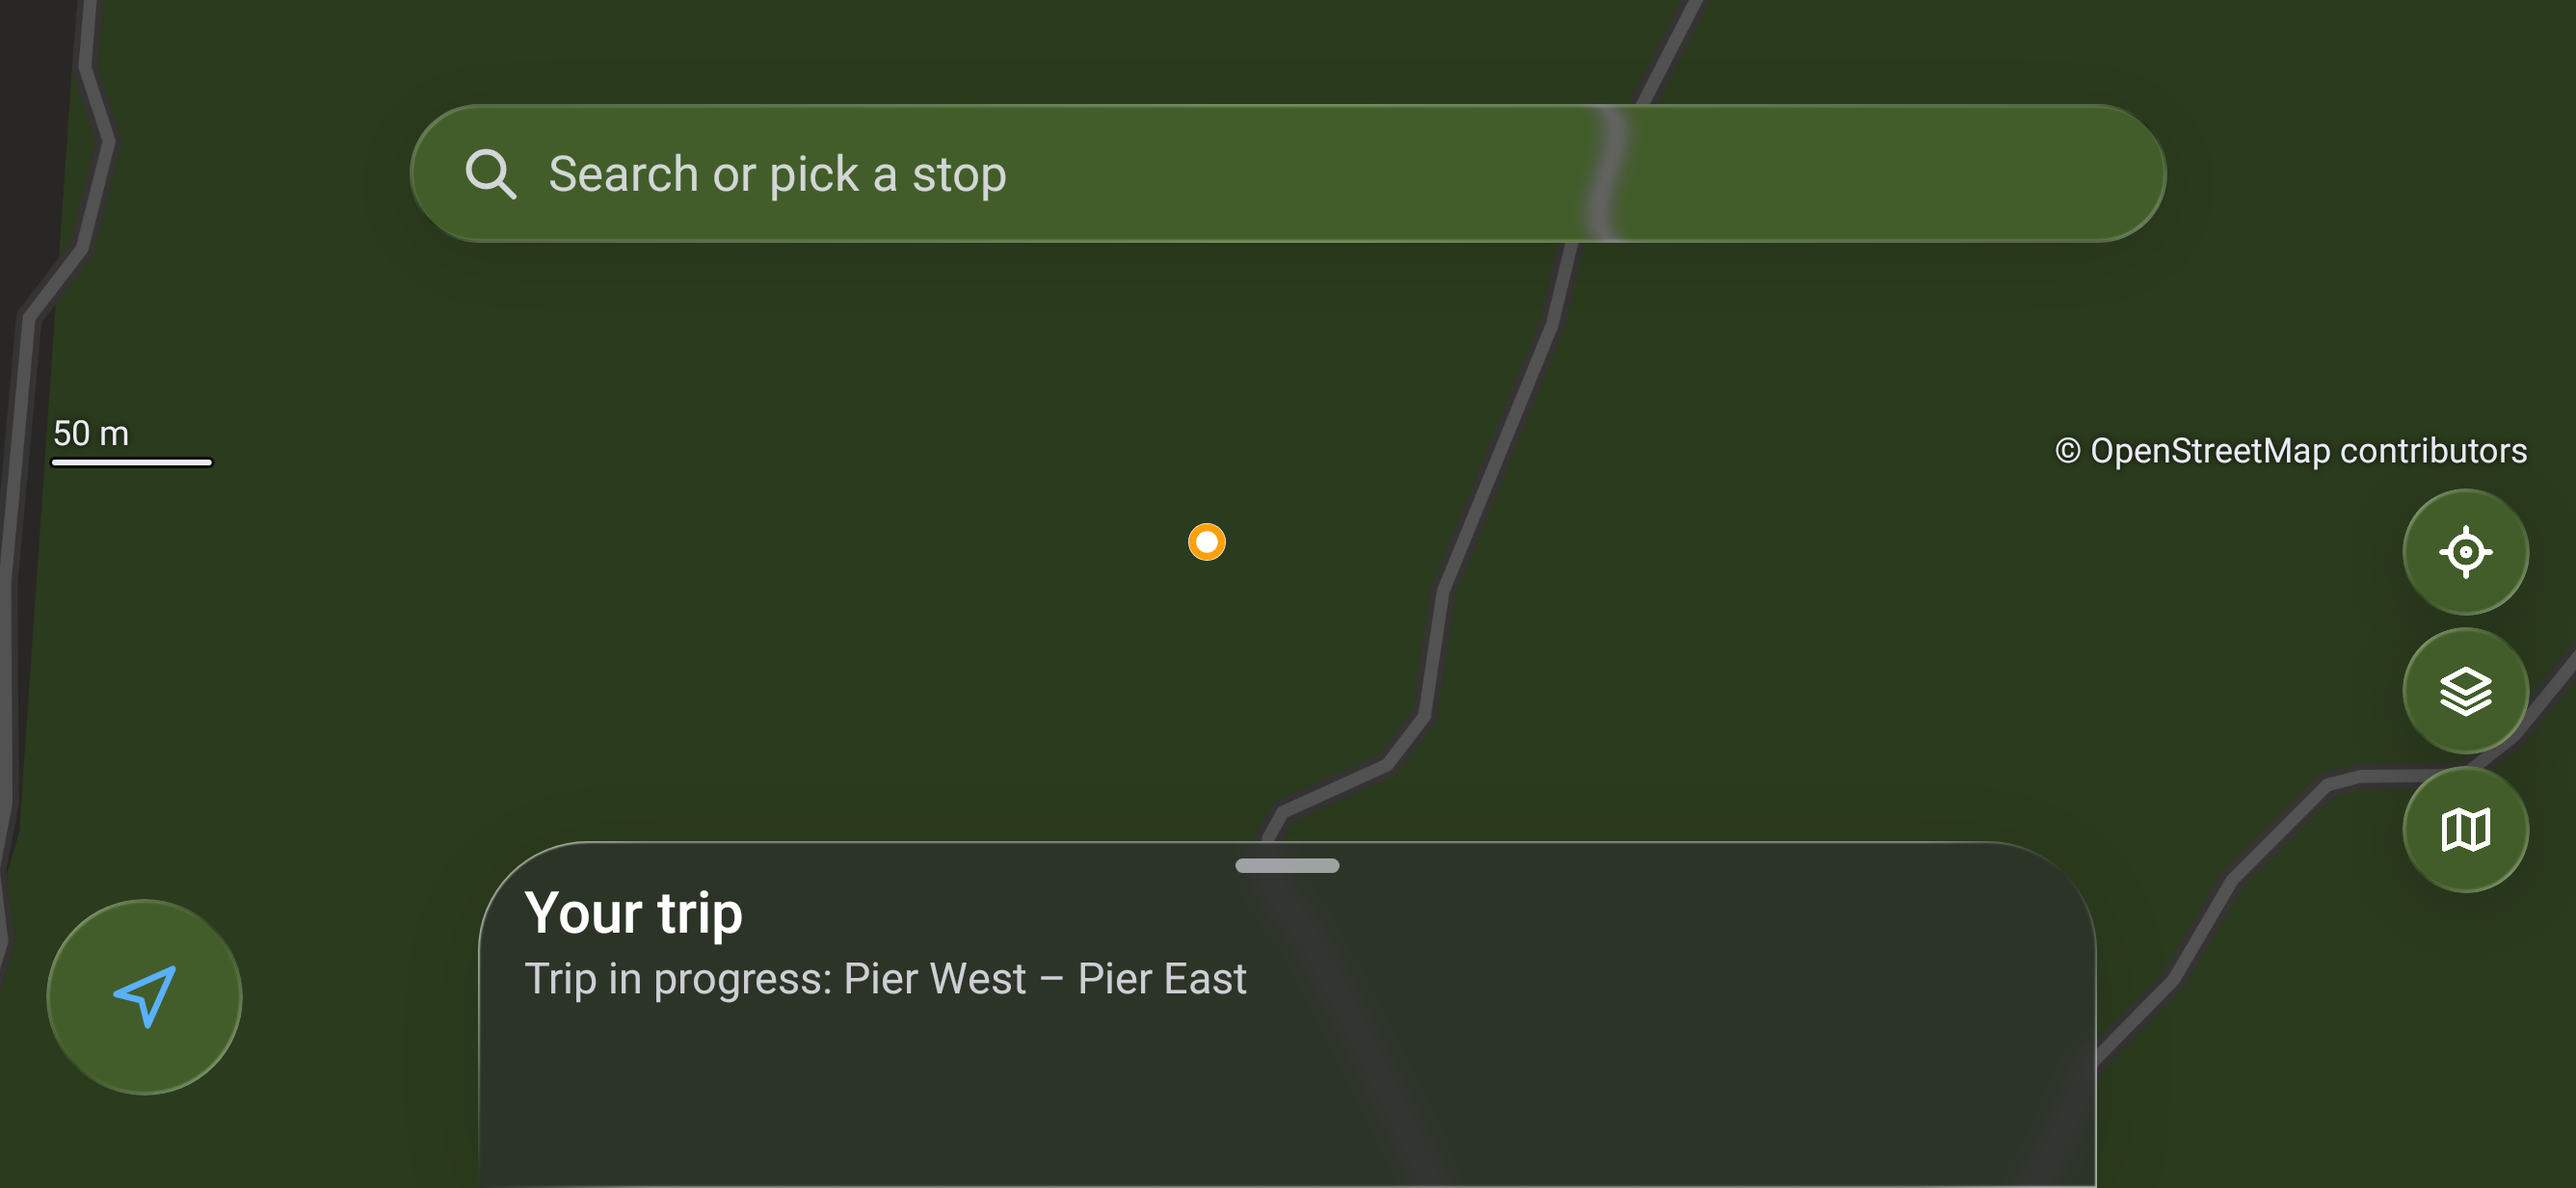
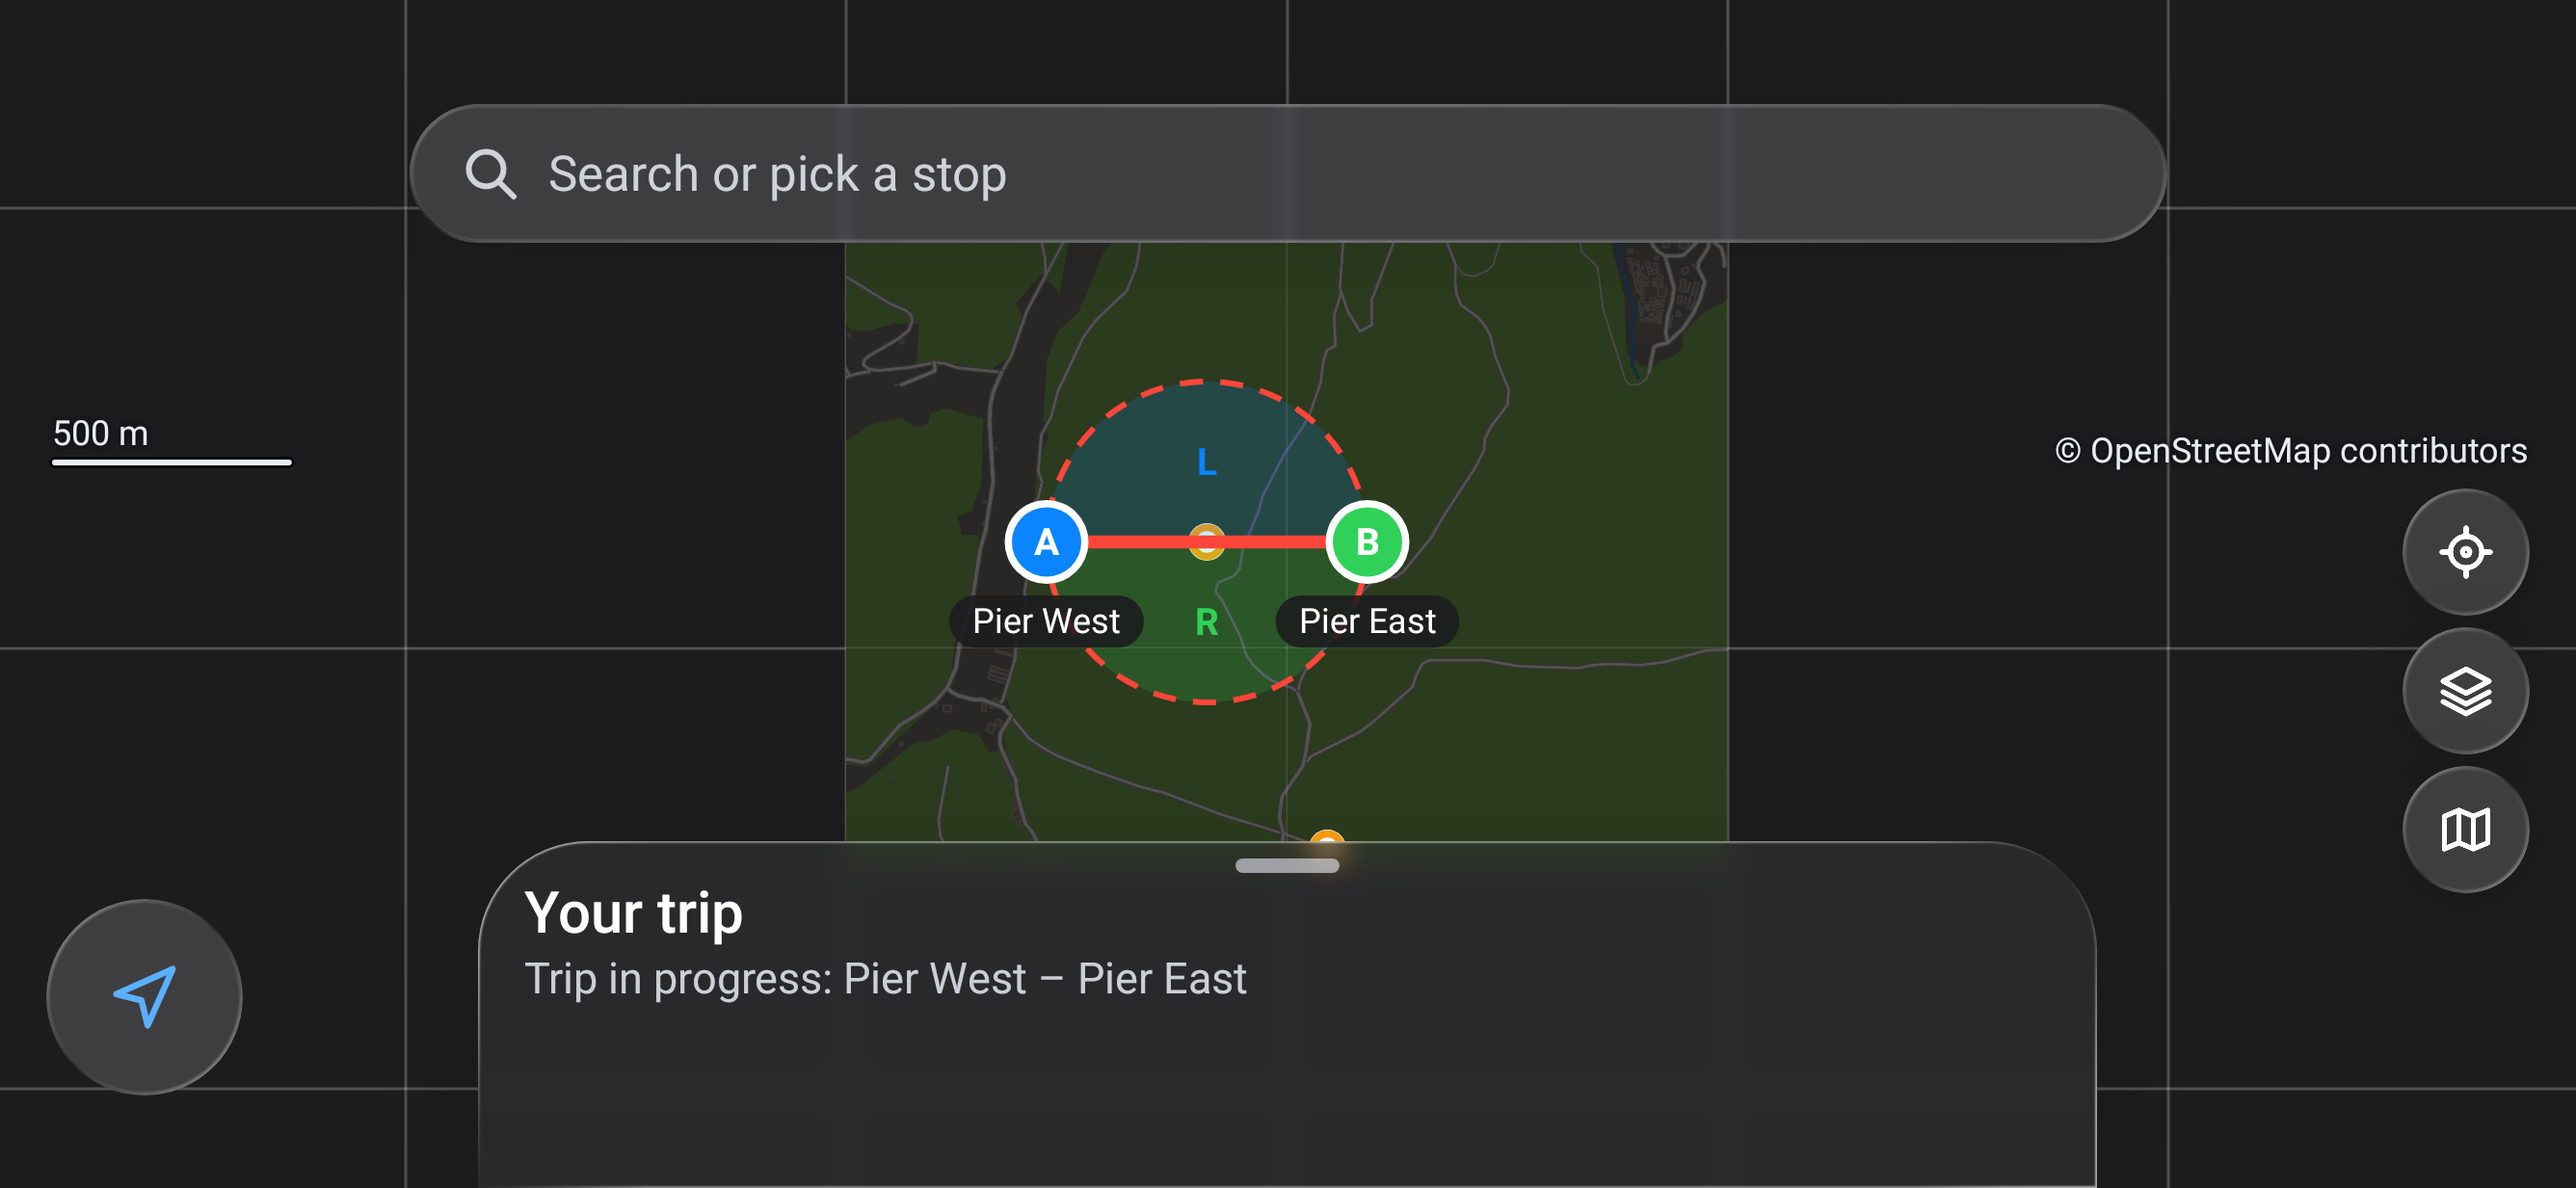
stops: a trip's gate is fitted as its whole circle (landscape home showed neither pins nor circle)
Claude-Session: https://claude.ai/code/session_011osUp9MCesspyDRaLRPJDZ

diff --git a/android/stops/src/test/kotlin/dev/rosty/stops/map/MapCameraTest.kt b/android/stops/src/test/kotlin/dev/rosty/stops/map/MapCameraTest.kt
@@ -346,13 +346,13 @@ class MapCameraTest {
 
     @Test fun aMarginLargerThanTheRoomIsShrunkNotObeyed() {
         val c = camera(width = 400, height = 800)
-        // 190 px of margin on each side of 400 would leave 20 px: the fit keeps the 120 dp minimum instead.
+        // 190 px of margin on each side of 400 would leave 20 px: the fit keeps the 60 dp minimum instead.
         assertTrue(c.fit(41.00, 28.90, 41.05, 29.10, marginPx = 190f))
         val width = c.screenX(29.10) - c.screenX(28.90)
-        assertEquals(120f, width, 1f)
+        assertEquals(60f, width, 1f)
         // A margin beyond the viewport, a negative one and padding beyond the viewport are harmless too.
         assertTrue(c.fit(41.00, 28.90, 41.05, 29.10, marginPx = 5_000f))
-        assertEquals(120f, c.screenX(29.10) - c.screenX(28.90), 1f)
+        assertEquals(60f, c.screenX(29.10) - c.screenX(28.90), 1f)
         assertTrue(c.fit(41.00, 28.90, 41.05, 29.10, marginPx = -50f))
         assertEquals(400f, c.screenX(29.10) - c.screenX(28.90), 1f)
         assertTrue(c.setPadding(900f, 900f, 900f, 900f))
@@ -371,6 +371,48 @@ class MapCameraTest {
         // Centre-on and travel aim at the same sensible point.
         assertTrue(tiny.centreOn(41.02, 29.0))
         assertEquals(30f, tiny.screenX(29.0), 0.5f)
+    }
+
+    @Test fun fitGateKeepsTheWholeCircleInTheFreeArea() {
+        // 891 x 411 dp landscape at 3x, a trip in progress: top chrome 84 dp, the sheet at peek 120 dp, buttons 68 dp.
+        val c = camera(width = 2673, height = 1233, density = 3f)
+        assertTrue(c.setPadding(0f, 252f, 204f, 360f))
+        val margin = 144f
+        // A west-east gate of about 670 m.
+        val lat = 41.002
+        val west = 28.994
+        val east = 29.002
+        // Fitting the two ends alone fills the width: most of the circle is under the chrome (the bug).
+        assertTrue(c.fitPoints(doubleArrayOf(lat, west, lat, east), marginPx = margin))
+        val wrongRadius = (c.screenX(east) - c.screenX(west)) / 2f
+        assertTrue(c.screenY(lat) - wrongRadius < 252f)
+        // The gate fit holds the whole circle.
+        assertTrue(c.fitGate(lat, west, lat, east, marginPx = margin))
+        val radius = (c.screenX(east) - c.screenX(west)) / 2f
+        val cx = (c.screenX(east) + c.screenX(west)) / 2f
+        val cy = c.screenY(lat)
+        assertEquals(c.focusX, cx, 1f)
+        assertEquals(c.focusY, cy, 1f)
+        assertTrue("top ${cy - radius}", cy - radius >= 252f + margin - 1f)
+        assertTrue("bottom ${cy + radius}", cy + radius <= 1233f - 360f - margin + 1f)
+        assertTrue(cx - radius >= margin && cx + radius <= 2673f - 204f - margin)
+        // The short axis binds: the circle touches the margins above and below.
+        assertEquals(252f + margin, cy - radius, 2f)
+        // The same for a north-south and a diagonal gate, and whichever end is A.
+        for (gate in listOf(doubleArrayOf(41.0, 29.0, 41.006, 29.0), doubleArrayOf(41.004, 29.003, 41.0, 28.997))) {
+            assertTrue(c.fitGate(gate[0], gate[1], gate[2], gate[3], marginPx = margin))
+            val ax = c.screenX(gate[1])
+            val ay = c.screenY(gate[0])
+            val bx = c.screenX(gate[3])
+            val by = c.screenY(gate[2])
+            val r = kotlin.math.hypot(bx - ax, by - ay) / 2f
+            assertEquals(c.focusY, (ay + by) / 2f, 1f)
+            assertEquals((1233f - 360f - 252f) / 2f - margin, r, 2f)
+        }
+        // Both ends on one point is a point fit; a broken coordinate changes nothing.
+        assertTrue(c.fitGate(41.0, 29.0, 41.0, 29.0))
+        assertEquals(MapMath.MIN_METRES_PER_DP, c.metresPerDp, 1e-6)
+        assertFalse(c.fitGate(41.0, Double.NaN, 41.0, 29.0))
     }
 
     @Test fun fitOfOnePointUsesTheClosestAllowedScale() {

diff --git a/android/stops/src/main/kotlin/dev/rosty/stops/map/MapCamera.kt b/android/stops/src/main/kotlin/dev/rosty/stops/map/MapCamera.kt
@@ -155,7 +155,7 @@ class MapCamera(
     ): Double {
         val free = if (counts) size - padding else size.toFloat()
         // A margin that would leave less than the minimum is shrunk rather than obeyed.
-        val least = minOf(free, MIN_FREE_DP * density)
+        val least = minOf(free, MIN_FIT_DP * density)
         return max(1.0, max(least, free - 2 * max(0f, marginPx)).toDouble())
     }
 
@@ -323,7 +323,7 @@ class MapCamera(
      *
      * The fit never works with less than [MIN_FREE_DP] on an axis: padding that leaves less is ignored on that axis
      * (the box is fitted to the whole viewport there, partly under the chrome, instead of zooming out to the limit),
-     * and a margin that would leave less is shrunk.
+     * and a margin that would leave less than [MIN_FIT_DP] is shrunk.
      */
     fun fit(
         south: Double,
@@ -387,6 +387,37 @@ class MapCamera(
             east = max(east, latLon[2 * i + 1])
         }
         return fit(south, west, north, east, marginPx, minMetresPerDp)
+    }
+
+    /**
+     * [fit] for a gate: the whole circle whose diameter is AB, not only its two ends. A west-east gate in a wide
+     * window would otherwise fill the width and leave most of its circle above and below the free area.
+     */
+    fun fitGate(
+        aLat: Double,
+        aLon: Double,
+        bLat: Double,
+        bLon: Double,
+        marginPx: Float = 0f,
+        minMetresPerDp: Double = MapMath.MIN_METRES_PER_DP,
+    ): Boolean {
+        if (!aLat.isFinite() || !aLon.isFinite() || !bLat.isFinite() || !bLon.isFinite()) return false
+        // On the Mercator plane, where the circle is drawn: its centre is the middle of AB, its radius half of AB.
+        val ax = MapMath.worldX(aLon)
+        val ay = MapMath.worldY(aLat)
+        val dx = MapMath.wrapDelta(MapMath.worldX(bLon), ax)
+        val dy = MapMath.worldY(bLat) - ay
+        val cx = ax + dx / 2.0
+        val cy = ay + dy / 2.0
+        val r = Math.hypot(dx, dy) / 2.0
+        return fit(
+            south = MapMath.latOf(min(1.0, cy + r)),
+            west = MapMath.lonOfUnwrapped(cx - r),
+            north = MapMath.latOf(max(0.0, cy - r)),
+            east = MapMath.lonOfUnwrapped(cx + r),
+            marginPx = marginPx,
+            minMetresPerDp = minMetresPerDp,
+        )
     }
 
     // ---- gestures and animation ----
@@ -617,8 +648,11 @@ class MapCamera(
         /** A double tap zooms in by this (GPUI: `zoom_about(2.0, at)`). */
         const val DOUBLE_TAP_FACTOR = 2.0
 
-        /** The least free length per axis that padding and margins may leave for [fit] and the focus point. */
+        /** The least free length per axis that padding may leave for [fit] and the focus point. */
         const val MIN_FREE_DP = 120f
+
+        /** The least length per axis the margins of [fit] may leave (a short strip keeps most of its margins). */
+        const val MIN_FIT_DP = 60f
 
         const val ZOOM_ANIMATION_S = 0.25
         const val TRAVEL_ANIMATION_S = 0.45

diff --git a/android/stops/src/main/kotlin/dev/rosty/stops/home/HomeMap.kt b/android/stops/src/main/kotlin/dev/rosty/stops/home/HomeMap.kt
@@ -19,6 +19,7 @@ import androidx.core.net.toUri
 import androidx.lifecycle.Lifecycle
 import androidx.lifecycle.compose.LocalLifecycleOwner
 import androidx.lifecycle.repeatOnLifecycle
+import dev.rosty.core.model.stops.Coord
 import dev.rosty.core.model.stops.Destination
 import dev.rosty.design.motion.MotionGate
 import dev.rosty.platform.location.Fix
@@ -159,6 +160,10 @@ fun PlaceFirstView(
                 map.camera.fitPoints(view.latLon, marginPx = FIT_MARGIN_DP * map.camera.density)
             }
 
+            is FirstView.Gate -> {
+                map.fitGate(view.a, view.b)
+            }
+
             is FirstView.Centre -> {
                 // GPUI `Viewport::new(at, STREET_MPP)`: the position opens at street scale, then clears the chrome.
                 map.camera.setView(view.lat, view.lon, STREET_METRES_PER_DP)
@@ -181,11 +186,16 @@ private const val STREET_METRES_PER_DP = 1.5
 
 /** The view fits the gate of a trip that just started (GPUI follows the trip). */
 fun HomeMap.showGate(trip: dev.rosty.stops.trip.RunningTrip) {
+    fitGate(trip.a.coord, trip.b.coord)
+}
+
+/** The view fits the whole circle on AB (the pins, their captions and the circle clear the chrome by the margin). */
+private fun HomeMap.fitGate(
+    a: Coord,
+    b: Coord,
+) {
     if (camera.widthPx > 0 && camera.heightPx > 0) {
-        camera.fitPoints(
-            doubleArrayOf(trip.a.coord.lat, trip.a.coord.lon, trip.b.coord.lat, trip.b.coord.lon),
-            marginPx = FIT_MARGIN_DP * camera.density,
-        )
+        camera.fitGate(a.lat, a.lon, b.lat, b.lon, marginPx = FIT_MARGIN_DP * camera.density)
     }
 }
 
@@ -195,18 +205,19 @@ fun HomeMap.showPair(
     b: Destination,
 ) {
     pick.setPair(a, b)
-    if (camera.widthPx > 0 && camera.heightPx > 0) {
-        camera.fitPoints(
-            doubleArrayOf(a.coord.lat, a.coord.lon, b.coord.lat, b.coord.lon),
-            marginPx = FIT_MARGIN_DP * camera.density,
-        )
-    }
+    fitGate(a.coord, b.coord)
 }
 
 /** Where the first view goes. */
 sealed interface FirstView {
     class Fit(
         val latLon: DoubleArray,
+    ) : FirstView
+
+    /** A trip's gate: the circle on AB. */
+    data class Gate(
+        val a: Coord,
+        val b: Coord,
     ) : FirstView
 
     data class Centre(
@@ -224,7 +235,7 @@ fun firstView(
 ): FirstView {
     val trip = state.trip
     if (trip?.a != null && trip.b != null) {
-        return FirstView.Fit(doubleArrayOf(trip.a.coord.lat, trip.a.coord.lon, trip.b.coord.lat, trip.b.coord.lon))
+        return FirstView.Gate(trip.a.coord, trip.b.coord)
     }
     if (fix != null && fix.lat.isFinite() && fix.lon.isFinite()) return FirstView.Centre(fix.lat, fix.lon)
     if (state.saved.isNotEmpty()) {

diff --git a/android/stops/src/test/kotlin/dev/rosty/stops/E71ShotTest.kt b/android/stops/src/test/kotlin/dev/rosty/stops/E71ShotTest.kt
@@ -85,13 +85,19 @@ class E71ShotTest : ShotTest() {
         for (dark in listOf(false, true)) {
             runAndroidComposeUiTest<ComponentActivity> {
                 mainClock.autoAdvance = false
-                setContent { RostyTheme(darkTheme = dark) { remember { AppFixture(withTrip) }.Content() } }
+                // The real core behind the scripted trip: the pick controller draws the trip's pins and circle with it.
+                val core = FakeStopsCore(trip = SampleStops.pierW to SampleStops.pierE, real = HostCore.real())
+                setContent { RostyTheme(darkTheme = dark) { remember { AppFixture(core) }.Content() } }
                 repeat(3) {
                     mainClock.advanceTimeByFrame()
                     waitForIdle()
                     simulateBars(activity!!)
                 }
-                repeat(20) { mainClock.advanceTimeBy(100) }
+                // The core answers on its own threads, through the main looper.
+                repeat(30) {
+                    mainClock.advanceTimeBy(100)
+                    Thread.sleep(15)
+                }
                 waitForIdle()
                 onRoot().captureRoboImage(
                     "screenshots/e7.1-home-landscape-${if (dark) "dark" else "light"}.png",

diff --git a/android/stops/src/test/kotlin/dev/rosty/stops/home/HomeMapLogicTest.kt b/android/stops/src/test/kotlin/dev/rosty/stops/home/HomeMapLogicTest.kt
@@ -12,9 +12,8 @@ class HomeMapLogicTest {
 
     @Test fun aTripInProgressWinsTheFirstView() {
         val state = HomeState(trip = TripSummary("A – B", SampleStops.pierW, SampleStops.pierE))
-        val view = firstView(state, fix) as FirstView.Fit
-        assertEquals(4, view.latLon.size)
-        assertEquals(SampleStops.pierE.coord.lon, view.latLon[3], 0.0)
+        // The gate, so the view fits its whole circle and not only the two ends.
+        assertEquals(FirstView.Gate(SampleStops.pierW.coord, SampleStops.pierE.coord), firstView(state, fix))
     }
 
     @Test fun thenMyPositionThenTheSavedStopsThenTheDefault() {

diff --git a/_bmad-output/kotlin-ui/plans/e7-r1-approach-map.md b/_bmad-output/kotlin-ui/plans/e7-r1-approach-map.md
@@ -305,3 +305,10 @@ dates before 1970 and at `i64::MIN`/`MAX`, and offsets from -12 to +14 including
   rule is per axis: in landscape under a sheet the height falls back while the width keeps its padding. Tested with
   an 891 x 411 dp window and a medium sheet (60 dp left), the exact threshold, oversized margins and padding, and
   a viewport smaller than the minimum.
+- **A gate is fitted as its circle.** The home fitted a trip (first view, `showGate`, `showPair`) to its two ends.
+  A west-east gate in a wide window then filled the width and its circle, and with a short free strip the pins
+  too, ended up under the chrome. `MapCamera.fitGate` fits the bounding box of the circle on AB (computed on the
+  Mercator plane, where it is drawn); `FirstView.Gate` carries it. Margins may shrink a strip down to `MIN_FIT_DP`
+  (60 dp), which is separate from the 120 dp below which padding is ignored: a 207 dp landscape strip keeps its
+  48 dp margins. The landscape golden runs on the real core behind the scripted trip, so the pins and the circle
+  are drawn.
